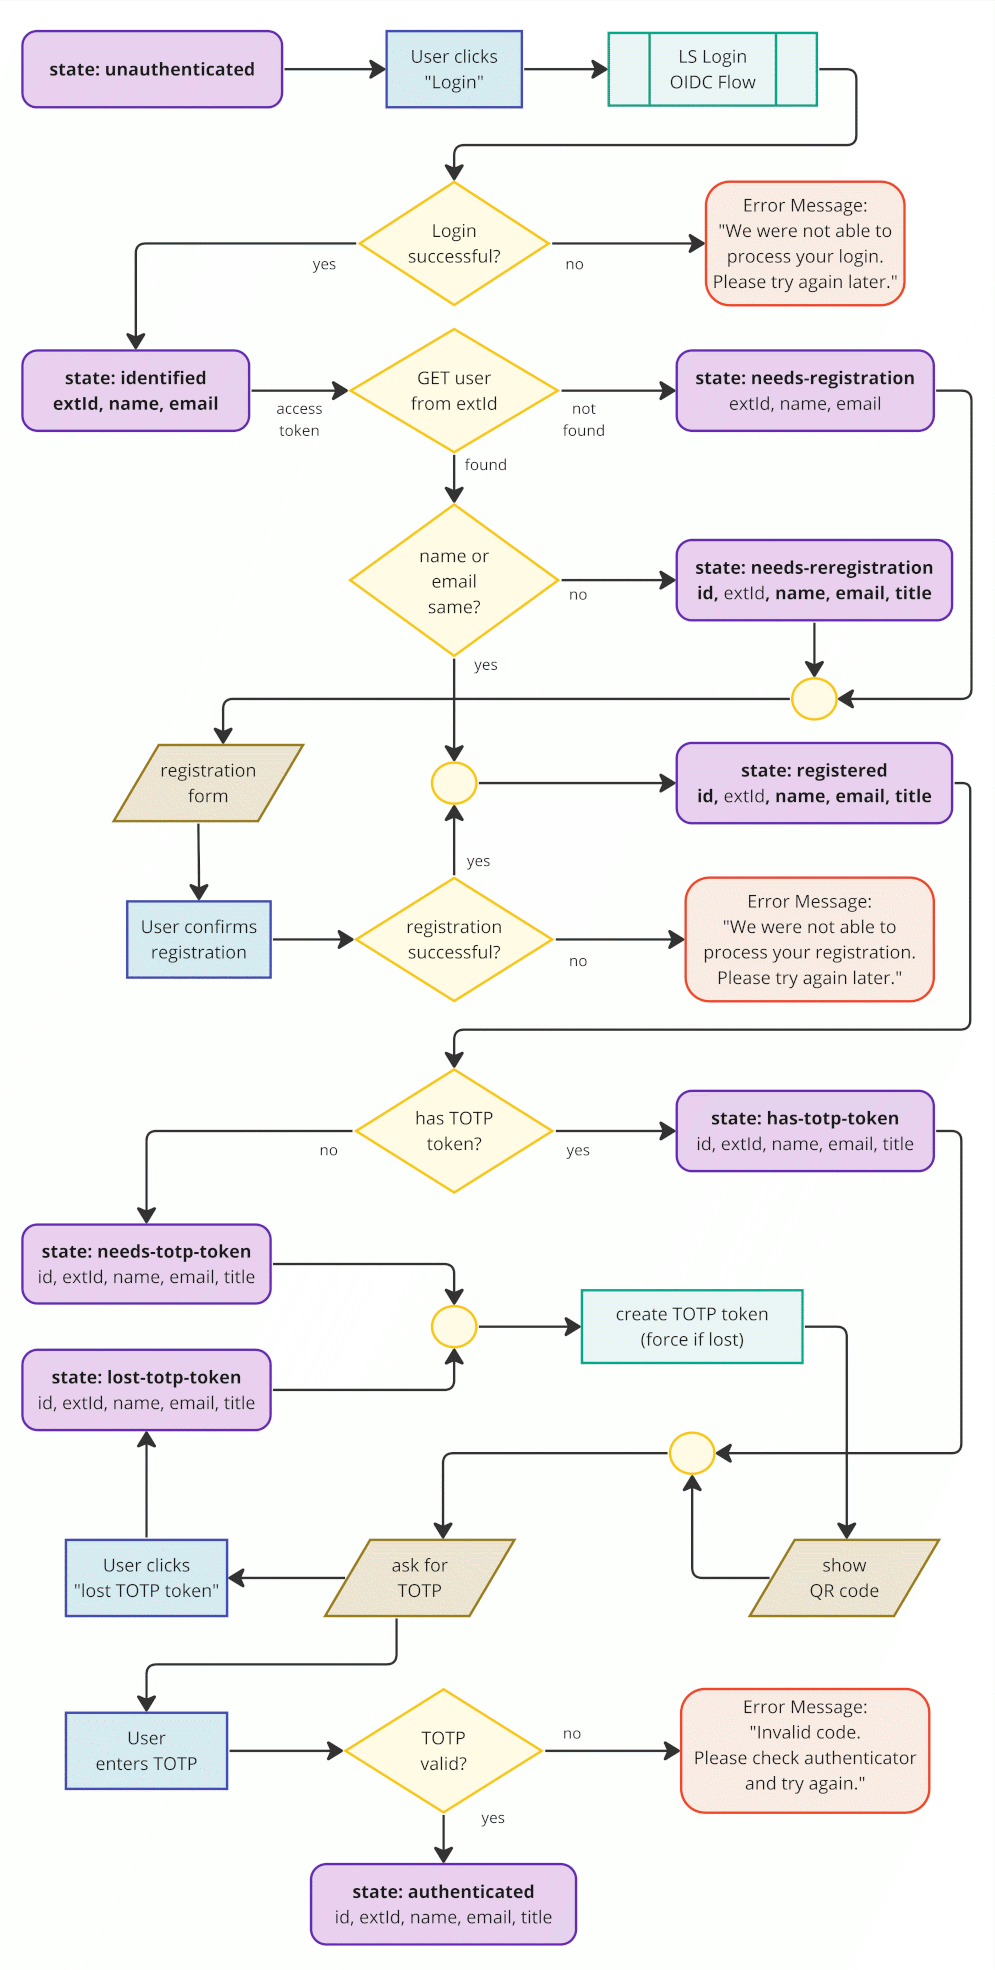
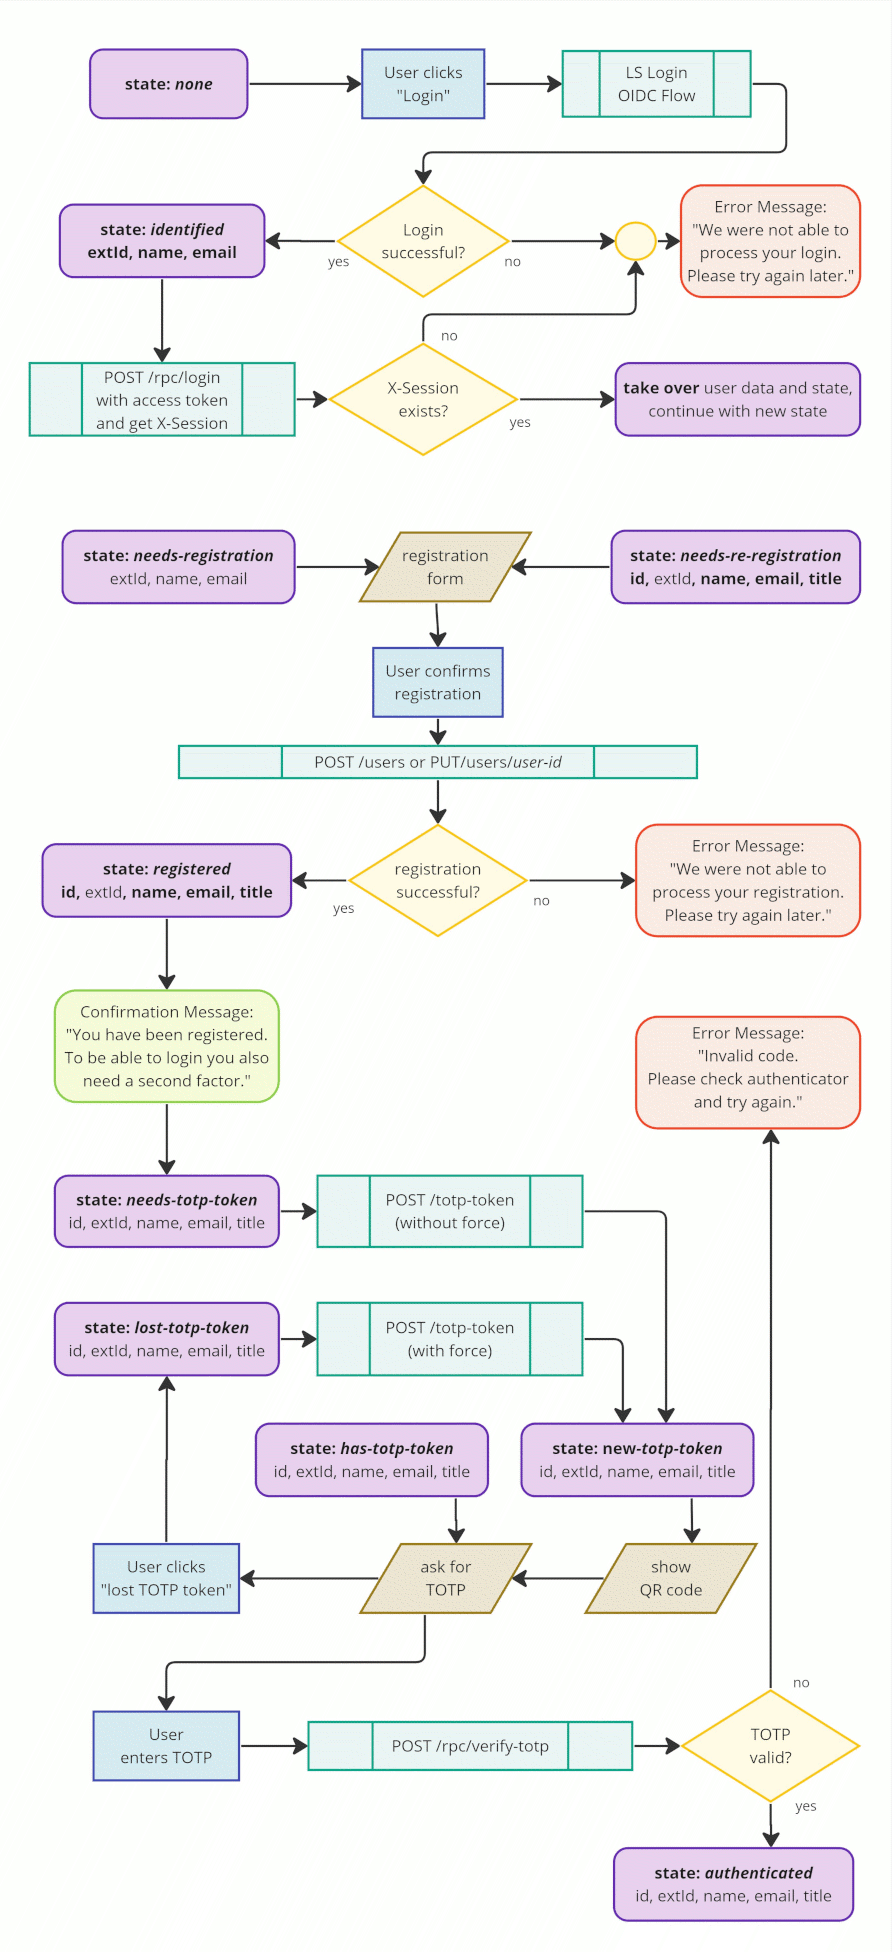
Improve session management (#99)

diff --git a/docs/epics/46-sugar-ant/technical_specification.md b/docs/epics/46-sugar-ant/technical_specification.md
@@ -50,10 +50,67 @@ The Auth Adapter creates an auth session and tracks users as soon as they have l
 
 Instead of converting the OIDC access token to our internal auth token, the Auth Adapter should now convert the content of the user session into the internal auth token. The internal auth token will change a bit, as outlined in a section below.
 
-The Auth Adapter must also be extended with a mechanism that prevents "session riding" attacks, using the "Cookie-to-header token" method. Thereby, the first request that creates the session responds not only with the session cookie, but also with a "CSRF cookie" which must be a unique and unpredictable string, either as a random string or derived from the session token via HMAC and an application secret. Contrary to the session cookie, the CSRF cookie must not set the "HttpOnly" flag, because it must be read by JavaScript running in the frontend so that it can be passed in the request
-header as a CSRF token for each request to the backend. The Auth Adapter needs to compare the CSRF token with the unique string set in the CSRF cookie.
+The Auth Adapter must also be extended with a mechanism that prevents "session riding" attacks, using the "Cookie-to-header token" method. Thereby, the first request that creates the session responds not only with the session cookie, but also with a "CSRF cookie" which must be a unique and unpredictable string, either as a random string or derived from the session token via HMAC and an application secret. Contrary to the session cookie, the CSRF cookie must not set the "HttpOnly" flag, because it must be read by JavaScript running in the frontend so that it can be passed in the request header as a CSRF token for each request to the backend. The Auth Adapter needs to compare the CSRF token with the unique string set in the CSRF cookie.
+
+The following endpoints will be implemented in the Auth Adapter for managing sessions. These endpoints are not proxied by the API gateway, but respond directly back to the client.
+
+- `POST /rpc/login` - *creates or gets the user session*
+  - request body: empty
+  - auth header: optionally, the OIDC access token
+  - response status:
+    - `204 No Content`: session exists or has been created
+    - `401 Unauthorized`: invalid access token or CSRF code
+  - response header:
+    - `X-Session`: JSON-encoded client session object
+      (contains all properties that are relevant for the client)
+
+If a user session already exists, this endpoint simply returns the existing session. This is used to request the current session state by the frontend when the page is loaded. If no user session exists, the authorization header is inspected. If a valid OIDC access token is found, the user data is fetched from the userinfo endpoint of the OIDC provider. A new session is created based on that user information. Also, a CSRF token is created and added to the session. The session starts with the state `needs-registration` or higher depending on the state of user registration in the database. This is used after the user logged in via OIDC on the client.
+
+Note that this method does not return the status code `200 OK` because this cannot be directly passed back to the client via the ExtAuth protocol, since it would be interpreted as a successful authentication and the request would be proxied. Therefore, the response status code `204 No Content` is used and the session is passed back in the response header instead of the response body.
+
+- `POST /rpc/logout` - *removes the user session*
+  - request body: empty
+  - response status:
+    - `204 No Content`: session exists or has been created
+    - `401 Unauthorized`: already logged out or invalid CSRF code
+
+This endpoint simply removes the auth session that is tracked in the Auth Adapter, thereby effectively logging the user out.
+
+When an auth session already exists and any other request is made, the expiration date of the session should be automatically extended. The timeout for auth sessions and their maximum duration should be made configurable.
 
 See also: [ADR: user session management](https://github.com/ghga-de/adrs/blob/main/docs/adrs/adr004_user_session_management.md)
+
+### Session states
+
+The session should have a state attribute that can have the following values:
+
+- **none**
+  There is no session yet, or the user has logged out.
+  Set as default and via `POST /rpc/logout`.
+- **identified** (frontend only)
+  The user has logged in via LS Login. External ID, name and email are known.
+- **needs-registration**
+  The user still needs to register with GHGA.
+  Set via `POST /rpc/login`.
+- **needs-re-registration**
+  The user is registered, but needs to confirm a name or email change.
+  Set via `update_session()`.
+- **registered**
+  The user is registered with GHGA, but does not have a 2nd factor.
+  Set via `update_session()`.
+- **needs-totp-token** (frontend only)
+  The user needs to create a TOTP token in the next step.
+- **new-totp-token**
+  A TOTP token for the user was created, but is not yet confirmed by the user.
+  Set via `POST /totp-token`.
+- **has-totp-token**
+  The user has installed a TOTP token and it was confirmed to be working.
+- **lost-totp-token** (frontend only)
+- Set via `update_session()`.
+  The user indicated that the TOTP token was lost and needs to be re-generated.
+- **authenticated**
+  The user is fully authenticated with two factors.
+  Set via `POST /rpv/verify-totp`.
 
 ### TOTP Management
 
@@ -79,10 +136,6 @@ As a side effect of this endpoint, all existing IVAs associated with this user m
 
 The QR code should be created in the frontend, e.g. using `react-qr-code` or the `qr-code` web component. If during implementation there are any issues with this approach, it can alternatively also be created in the backend, e.g. using the `segno` library.
 
-- `OPTIONS /rpc/verify-token` - *checks the existence of a TOTP token*
-
-This endpoint first verifies that the user has a valid auth session, i.e. has been successfully logged in via LS Login and is a registered user. If this is the case, it then checks whether the user has already created an active TOTP token. A response HTTP header `Allow: OPTIONS, POST` is returned in this case or `Allow: OPTIONS` in all other cases. In any case an empty response with the HTTP status `204 No Content` will be returned (not `200 Ok` because that can not be returned using ExtAuth).
-
 - `POST /rpc/verify-totp` - *verifies a one-time password*
   - request body:
     - `user_id`: string (the registered User ID)
@@ -90,14 +143,7 @@ This endpoint first verifies that the user has a valid auth session, i.e. has be
 
 This endpoint first verifies that the user has a valid auth session, i.e. has been successfully logged in via LS Login. It then verifies that the session refers to an already registered user, and that the user has the same user ID as specified in the request body. Next, it verifies that this user has already created a TOTP token. Finally, it verifies the given one-time password in `totp` using the current time and a configurable time window. If all verification steps succeed, the token is activated, and the HTTP status `204 No Content` is send in an empty response. Otherwise, if the one-time password could be verified, it responds with the HTTP status `401 Unauthorized`.
 
-- `POST /rpc/logout` - *removes the user session*
-  - request body: empty
-
-This endpoint simply removes the auth session that is tracked in the Auth Adapter, thereby effectively logging the user out. Returns an empty response with the HTTPS status `204 No Content`.
-
-Note that none of these endpoints yields the HTTP status code `200 OK` so that the responses can be returned using the ExtAuth protocol. This particular status code could not be used here because it would indicate a successful authentication, i.e. the response would be ignored and the request would be passed on by the API gateway.
-
-The auth session should be created when the endpoint `GET /users/{ext_id}` is called with an external user ID in the path that corresponds to the access token from LS Login in the Authorization header. This endpoint is called by the frontend after the OIDC flow in order to check whether the user is already registered, and therefore indicates a user login. When an auth session already exists and any other request is made, the expiration date of the session should be automatically extended. The timeout for auth sessions and their maximum duration should be made configurable.
+Note again that these endpoints do not respond with the HTTP status code `200 OK` so that the responses are returned directly to the client.
 
 The application logic for the TOTP related endpoints should be implemented in the TOTP Management module. This module should also implement rate limiting and replay attack prevention.
 
@@ -199,17 +245,17 @@ The `PATCH /access-requests/{access_request_id}` endpoint that is used to allow 
 
 ### Internal Auth Token
 
-Until now, an internal auth token was created and passed by the Auth Adapter via the API gateway after the user was successfully authenticated via LS Login. The token contained an additional `status` enum (active, inactive, invalid). It could contain the internal or external user id in the fields `id` and `ext_id`.
+Until now, an internal auth token was created and passed by the Auth Adapter via the API gateway after the user was successfully authenticated via LS Login. The token contained an additional `state` enum (active, inactive, invalid). It could contain the internal or external user id in the fields `id` and `ext_id`.
 
 In the new implementation, we change the internal auth token as follows:
 
 The internal auth token will be only created and passed on by the Auth Adapter if the user is fully authenticated, i.e. logged in via LS Login and the second factor has been validated.
 
-The `status` field will be removed from the auth token. The existence of the token always implies that the user account is active and not invalid.
+The `state` field will be removed from the auth token. The existence of the token always implies that the user account is active and not invalid.
 
 The `ext_id` field will be removed from the auth token. There are only two exceptional cases where it is needed, and in theses cases it can be stored in the `id` field instead. The `id` field will also be made mandatory and required to be a non-empty string.
 
-There are only the following three exceptions where the auth token will be also added by the Auth Adapter if the user is only logged in via LS Login:
+There are only the following two exceptions where the auth token will be also added by the Auth Adapter if the user is only logged in via LS Login:
 
 - `POST /users`
   - used to self-register a user
@@ -218,9 +264,6 @@ There are only the following three exceptions where the auth token will be also 
    when requested by users to confirm a name an email change
   - the user must be already registered
   - the `id` field of the auth context will contain the internal id of the user, and it must correspond to the `user_id` in the path
-- `GET /users/{ext_id}`
-  - when requested by users to check their own registered data
-  - the `id` field of the auth context will contain the external id, not the internal id, and it must correspond to the `ext_id` in the path
 
 ### Service Commons Library
 
@@ -258,49 +301,37 @@ The `AccessRequest` model must be extended to also include an optional `iva_id` 
 
 ### Login Flow in the Frontend
 
-The frontend keeps the state of the current user in the session storage. The state in the frontend can be one of the following stages:
+The frontend keeps the state of the current user in the session storage. The state in the frontend can be in one of the stages already listed above.
 
-- `unauthenticated`
-- `identified` (logged in via LS Login)
-- `needs-registration`
-- `needs-reregistration`
-- `registered`
-- `needs-totp-token`
-- `lost-totp-token`
-- `has-totp-token`
-- `authenticated` (fully logged in with TOTP)
-
-The user starts in the state `unauthenticated`. Only when the last stage has been reached, the user is considered fully authenticated.
+The user starts with an empty client session (state is `null`). Only when the last stage of the two factor authentication process has been reached, the user is considered fully authenticated.
 
 To initiate the authentication process, the user must first log in via LS Login and the OIDC flow must have been completed, at the end of which the frontend receives an OIDC access token. After that, the state is moved to `identified`.
 
 Now let's assume the user is in the state `identified`.
 
-The frontend then requests the user data from the user management service using the `GET /users/{ext_id}` endpoint, passing the LS Login ID and the access token. On the backend side, this will create an auth session as side effect.
+The frontend then requests the user data from the user management service using the `POST /rpc/login` endpoint, passing the the OIDC access token. On the backend side, this will create an auth session, of which a view with the relevant fields is passed back to the frontend via the `X-Session` header.
 
-If the user is already registered, the frontend gets the internal user ID and the user info (particularly, the name and email) in the response, and the state is set to `registered`.
+The state from the backend is now used as frontend session state, and depending on the state, the user can be redirected to a different route.
 
 If the user is not yet registered, the state is set to `needs-registration` and the frontend asks the user to register.
 
-If the user info from LS Login does not match the registered user info, the user will not be considered valid by the backend, the state is set to `needs-reregistration`, and the frontend should show a message accordingly, asking the user to confirm and thereby re-register.
+If the user info from LS Login does not match the registered user info, the user will not be considered valid by the backend, the state is set to `needs-re-registration`, and the frontend should show a message accordingly, asking the user to confirm and thereby re-register.
 
 TODO: Should we send a notification to a data steward in this case, or maybe even invalidate existing TOTP tokens and IVAs?
 
-If the state is `needs-registration` or `needs-reregistration`, the user is requested to newly register or confirm the changed user data. Registration of users has already been implemented in the frontend and in the backend and does not need to be changed. After registration, the frontend also gets the user info from the backend and stores it in the session storage.
+If the state is `needs-registration` or `needs-re-registration`, the user is requested to newly register or confirm the changed user data. Registration of users has already been implemented in the frontend and in the backend and does not need to be changed. After registration, the frontend also gets the user info from the backend and stores it in the session storage.
 
- We now assume the user is in the state `registered`, and the frontend therefore knows the internal user ID and the user info by looking it up in the session storage. But it does not know yet know whether the user already created a TOTP token as second factor.
+If the session state is `registered`, the user will be shown the registered data (maye with an option to change them via re-registration) and informed that a second factor needs to be created. If the user confirms, the state progresses to `needs-totp-token`.
 
-Therefore, the frontend checks whether the user already created a TOTP token using the `OPTIONS /rpc/verify/totp-token` endpoint. If this returns "POST" as allowed method, the user is moved to the `has-totp-token` state, otherwise to the `needs-totp-token` state.
-
-Let's assume the user is in the `needs-totp-token` or `lost-totp-token` state. The frontend then uses the `POST /totp-token` endpoint to create a provisioning URI, whereby the `force` flag should be set if and only if the user is in the state `lost-totp-token`. The frontend then presents the returned URI in form of a QR code to the user and asks the user to scan the QR code using an authenticator app. It should also show a button or link to display the secret as text as fallback for manually entering the secret.
+The frontend then uses the `POST /totp-token` endpoint to create a provisioning URL, presents it in form of a QR code to the user and asks the user to scan the QR code using an authenticator app. It should also show a button or link to display the secret as text as fallback for manually entering the secret and as backup code.
 
 The frontend should recommend using Aegis (for Android) or 2FAS (for Android and iOS) as authenticator apps. The authenticators provided by Microsoft and Google (both are available for Android and iOS) can also be mentioned, since some users may already have them installed. However, the Google authenticator should not be explicitly recommended, since it does not require unlocking the phone and therefore is less secure. The also popular Authy should not be recommend at all, since it stores the secrets in the cloud and does not provide a means for the user to retrieve them, which makes it impossible to migrate them to another app.
 
 On the same page, the frontend also asks the user to enter the one-time password (six-digit code) shown in the authenticator app to validate the creation of the second factor in a text input field.
 
-Now let's assume the user is in the `has-totp-token` state. In that case, a similar text input field should be presented to the user, asking them to enter the one-time-password (six-digit code) shown in the authenticator app for authentication.
+If the session has the `has-totp-token` state, a similar text input field should be presented to the user, asking them to enter the one-time-password (six-digit code) shown in the authenticator app for authentication.
 
-The user is also shown a link that allows re-creating the second factor. This link can be used in the case they lost the phone with the authenticator app and do not have a backup of the secrets. Following the link, after a warning that all independent verification addresses will be invalidated, the user state should be set to `lost-topt-token`.
+The user is also shown a link that allows re-creating the second factor. This link can be used in the case they lost the phone with the authenticator app and do not have a backup of the secrets. Following the link, after a warning that all independent verification addresses will be invalidated, the user state should be set to `lost-topt-token`. In that case, the `POST /totp-token` endpoint should be called with the `force` flag to overwrite an existing TOTP token.
 
 When the user submits the one-time-password, the frontend uses the `POST /rpc/verify-totp` endpoint to check its validity.
 
@@ -331,7 +362,7 @@ For existing IVAs, their state and the number of bound datasets should be displa
 Each existing IVA in the state `unverified` should have a button "request verification". Each IVA in the state `code-transmitted` should have a button
 "enter verification code".
 
-After clicking "request verification", the state of the IVA should be moved from `unverified` to `code_requested`, a confirmation email should be sent to the user and a notification email sho0uld be sent to a data steward.
+After clicking "request verification", the state of the IVA should be moved from `unverified` to `code_requested`, a confirmation email should be sent to the user and a notification email should be sent to a data steward.
 
 After clicking "verify", the verification code should be requested from the user via an input field, and the state of the IVA should be moved from `code-transmitted` to `verified`. If this does not succeed, a corresponding error message must be shown to the user. After three failed attempts or when the verification code expired, users should be informed that they need to re-request the verification because the verification code expired.
 
